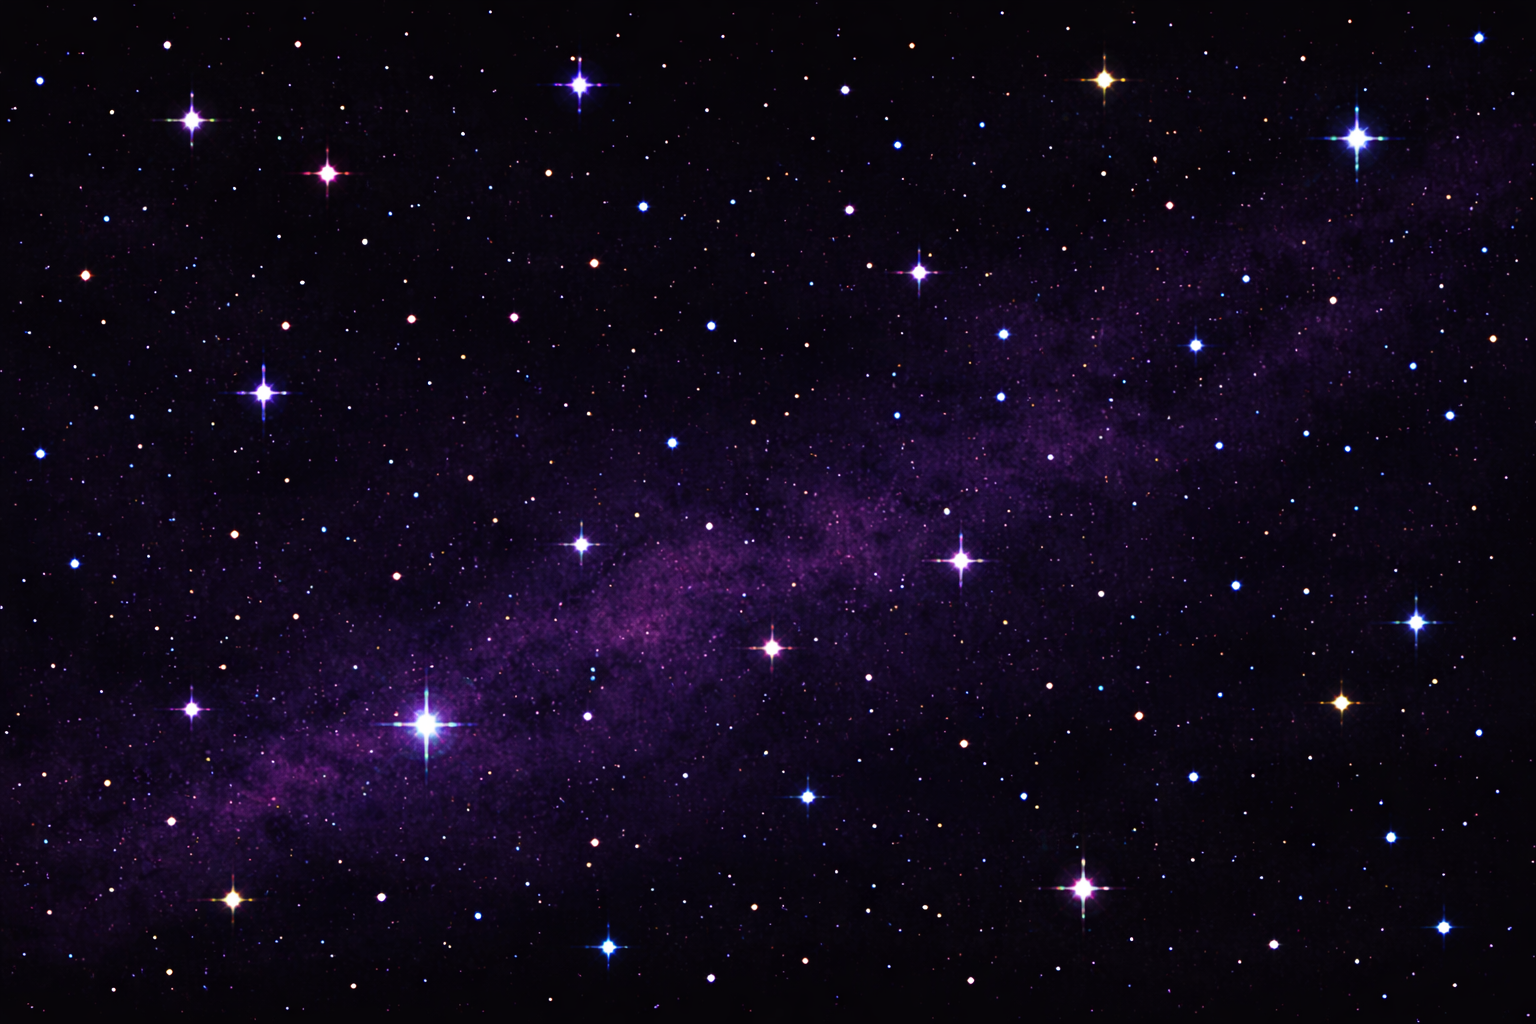
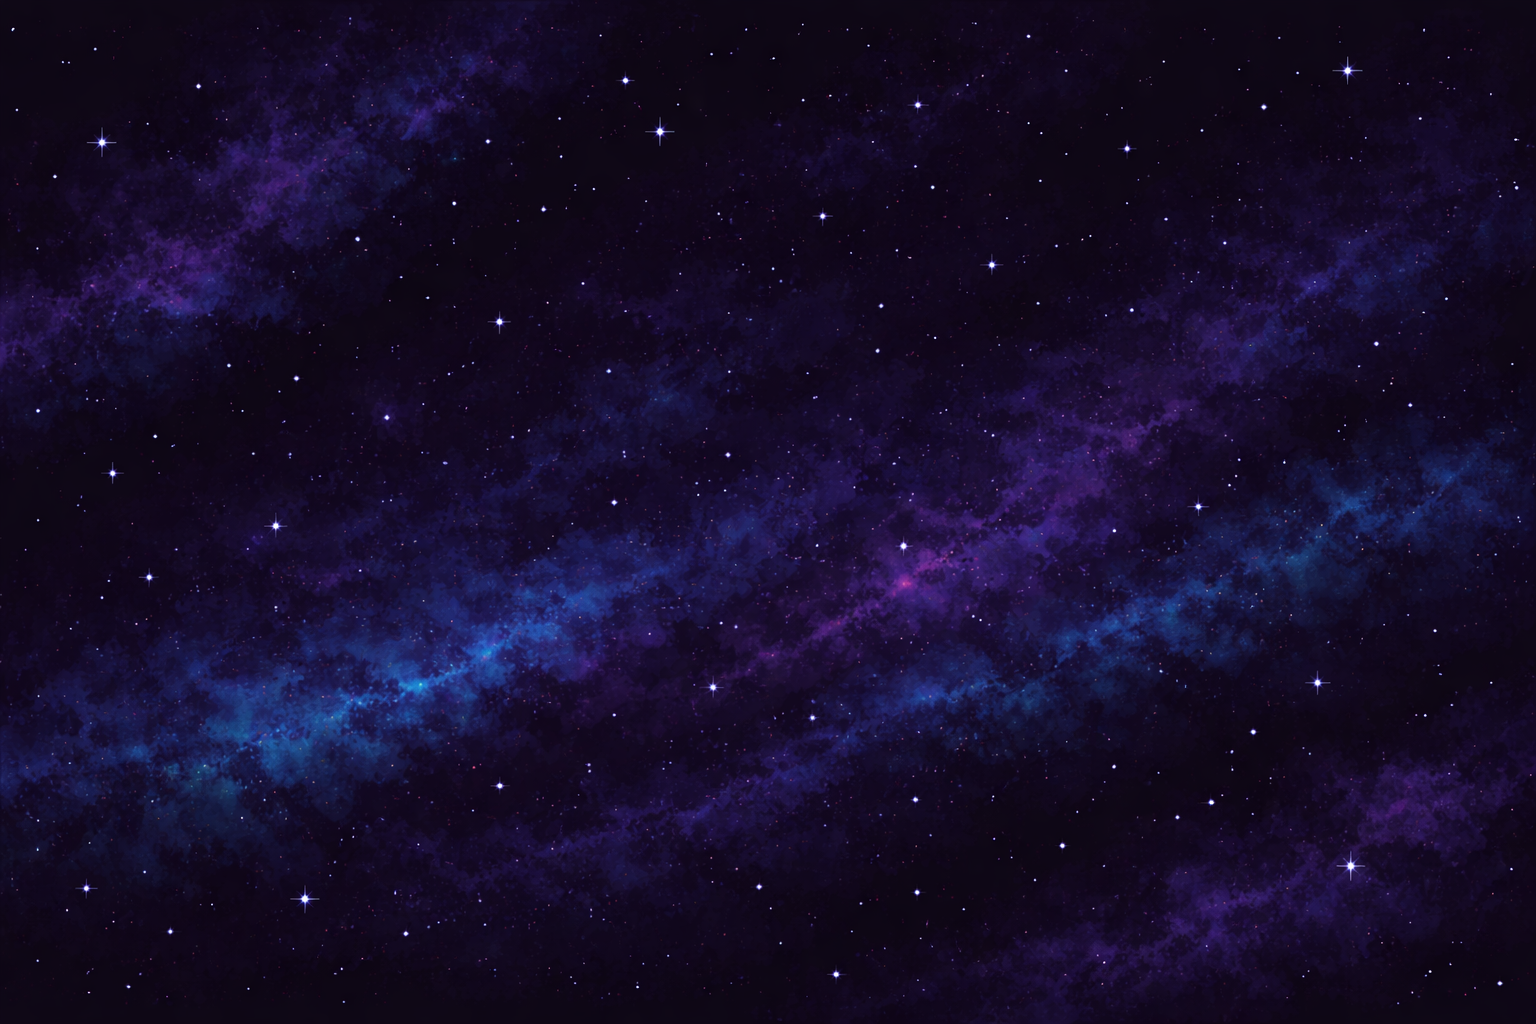
Dodani alieni i njihovi rectangle okviri za pomicanje

diff --git a/GameManager.cpp b/GameManager.cpp
@@ -1,12 +1,41 @@
 #include "GameManager.hpp"
 #include "Laser.hpp"
+#include "Enemy.hpp"
+#include <algorithm>
+#include <iostream> // makni kasnije -------------------------
+GameManager::GameManager() :
+    shipTexture(LoadTexture("Assets/spaceship scaled.png")),
+    spaceship(&shipTexture, Vector2{ (static_cast<float>(GetScreenWidth()) - shipTexture.width) / 2, static_cast<float>(GetScreenHeight()) - shipTexture.height - 70 }),
+    obstacleTexture(LoadTexture("Assets/obstacle scaled.png")),
+    backgroundTexture(LoadTexture("Assets/space_1.png")),
+    enemyTextureOne(LoadTexture("Assets/enemy_1_scaled.png")),
+    enemyTextureTwo(LoadTexture("Assets/enemy_2_scaled.png")),
+    enemyTextureThree(LoadTexture("Assets/enemy_3_scaled.png"))
 
-GameManager::GameManager() : 
-	shipTexture(LoadTexture("Assets/spaceship scaled.png")),
-    spaceship(&shipTexture, Vector2{ ((float)GetScreenWidth() - shipTexture.width) / 2, (float)GetScreenHeight() - shipTexture.height - 30 }) {
+{
+    constexpr int obstacleCount = 4;
+    const float obstacleY = GetScreenHeight() - 300;
+
+    float margin = 200.0;
+    float available = GetScreenWidth() - 2.0 * margin;
+    float spacing = available / (obstacleCount - 1);
+
+    for (int i = 0; i < obstacleCount; ++i) {
+        Vector2 pos{
+            margin + spacing * i - obstacleTexture.width / 2.0,
+            obstacleY
+        };
+        obstacles.push_back(std::make_unique<Obstacle>(&obstacleTexture, pos));
+    }
 }
+
 GameManager::~GameManager() {
 	UnloadTexture(shipTexture);
+    UnloadTexture(obstacleTexture);
+    UnloadTexture(enemyTextureOne);
+    UnloadTexture(enemyTextureTwo);
+    UnloadTexture(enemyTextureThree);
+    UnloadTexture(backgroundTexture);
 }
 
 void GameManager::HandleInput() {
@@ -20,10 +49,9 @@ void GameManager::HandleInput() {
     } 
     
     if (IsKeyPressed(KEY_SPACE)) {
-        spaceship.Fire();
         Vector2 currentPosition = spaceship.getPosition();
         Vector2 newLaser{
-        currentPosition.x + spaceship.getWidth() / 2.0f - 2.0f,
+        currentPosition.x + spaceship.getWidth()/2.0 - Laser::WIDTH / 2.0,
         currentPosition.y - 20
         };
         lasers.push_back(std::make_unique<Laser>(newLaser));
@@ -33,17 +61,31 @@ void GameManager::HandleInput() {
 void GameManager::Draw() {
     BeginDrawing();
 
-    ClearBackground(BLACK);
+    DrawTexture(backgroundTexture, 0, 0, WHITE);
+
+
     spaceship.Draw();
+
+    for (auto& obstacle : obstacles) {
+        obstacle->Draw();
+    }
+
     for (auto& laser : lasers) {
         laser->Draw();
     }
 
-
+    for (auto& enemy : enemies) {
+        enemy->Draw();
+    }
+    std::cout << "Active lasers: " << lasers.size() << std::endl; // makni kasnije -------------------------
     EndDrawing();
 }
 
 void GameManager::Update() {
+    float deltaT = GetFrameTime();
+    HandleInput();
+    MoveSwarm(deltaT);
+
     for (auto& laser : lasers) {
         laser->updatePosition();
     }
@@ -53,4 +95,72 @@ void GameManager::Update() {
             return laser->checkOffScreen();
         }), lasers.end());
 
+}
+
+void GameManager::SpawnEnemies() {
+    enemies.clear();
+    constexpr int rows = 5;
+    constexpr int columns = 11;
+
+    constexpr float startX = 100.0;
+    constexpr float startY = 80.0;
+
+    constexpr float spacingX = 90.0;
+    constexpr float spacingY = 80.0;
+
+    for (int i = 0; i < rows; i++) {
+        for (int j = 0; j < columns; j++) {
+            Vector2 newPos{ startX + j * spacingX, startY + i * spacingY };
+            const Texture2D* texPointer = nullptr;
+            int bounty = 0;
+            if (i <= 1) {
+                texPointer = &enemyTextureOne;
+                bounty = 10;
+            }
+            else if (i <= 3) {
+                texPointer = &enemyTextureTwo;
+                bounty = 20;
+            }
+            else {
+                texPointer = &enemyTextureThree;
+                bounty = 30;
+            }
+
+            enemies.emplace_back(std::make_unique<Enemy>(texPointer, newPos, bounty));
+        }
+    }
+
+};
+
+void GameManager::MoveSwarm(float deltaT) {
+    bool anyAlive = false;
+    float minX = 1e9f;
+    float maxX = -1e9f;
+
+    for (const auto& e : enemies) {
+        if (!e) continue;
+        
+        Rectangle rec = e->GetRect();
+        anyAlive = true;
+        minX = std::min(minX, rec.x);
+        maxX = std::max(maxX, rec.x + rec.width);
+    }
+
+    if (!anyAlive) return;
+
+    float deltaX = swarmDirection * swarmSpeed * deltaT;
+    bool hitLeft = (minX + deltaX <= swarmPadding);
+    bool hitRight = (maxX + deltaX >= (GetScreenWidth() - swarmPadding));
+
+    if (hitLeft || hitRight) {
+        swarmDirection *= -1;
+        for (auto& e : enemies) {
+            if (e) e->Translate(Vector2{ 0.0f, swarmDrop });
+        }
+    }
+    else {
+        for (auto& e : enemies) {
+            if (e) e->Translate(Vector2{ deltaX, 0.0f });
+        }
+    }
 }

diff --git a/GameManager.hpp b/GameManager.hpp
@@ -2,18 +2,33 @@
 #include "SpaceShip.hpp"
 #include "Entity.hpp"
 #include "Laser.hpp"
+#include "Obstacle.hpp"
 #include <vector>
 #include <memory>
 
 class GameManager {
+	Texture2D backgroundTexture;
 	Texture2D shipTexture;
+	Texture2D obstacleTexture;
+	Texture2D enemyTextureOne;
+	Texture2D enemyTextureTwo;
+	Texture2D enemyTextureThree;
 	SpaceShip spaceship;
 	std::vector<std::unique_ptr<Entity>> enemies;
 	std::vector<std::unique_ptr<Laser>> lasers;
+	std::vector<std::unique_ptr<Obstacle>> obstacles;
+
+	float swarmDirection = 1.0;
+	float swarmSpeed = 70.0;     
+	float swarmDrop = 18.0;     
+	float swarmPadding = 20.0;
+
 public:
 	GameManager();
 	~GameManager();
 	void Update();
 	void HandleInput();
+	void SpawnEnemies();
 	void Draw();
+	void MoveSwarm(float deltaT);
 };

diff --git a/SpaceShip.cpp b/SpaceShip.cpp
@@ -1,6 +1,6 @@
 #include "SpaceShip.hpp"
 #include <raylib.h>
-#include <iostream>
+
 SpaceShip::SpaceShip(const Texture2D* s, Vector2 pos) :
 Entity(s, pos) {}
 
@@ -11,17 +11,13 @@ void SpaceShip::Draw() const {
 }
 
 void SpaceShip::MoveLeft() {
-	position.x -= 7;
+	position.x -= 6;
 }
 
 void SpaceShip::MoveRight() {
-	position.x += 7;
+	position.x += 6;
 }
 
-void SpaceShip::Fire() {
-	std::cout << "Firing weapon!" << std::endl;
-	
-}
 
 Vector2 SpaceShip::getPosition() const {
 	return position;

diff --git a/Entity.cpp b/Entity.cpp
@@ -2,3 +2,19 @@
 
 Entity::Entity(const Texture2D* s, Vector2 pos) :
 	image(s), position(pos) {}
+
+Rectangle Entity::GetRect() const {
+	return Rectangle{
+		position.x,
+		position.y,
+		image ? (float)image->width : 0.0f,
+		image ? (float)image->height : 0.0f
+	};
+}
+
+Vector2 Entity::GetPosition() const { return position; }
+void Entity::SetPosition(Vector2 p) { position = p; }
+void Entity::Translate(Vector2 t) {
+	position.x += t.x;
+	position.y += t.y;
+}

diff --git a/Laser.cpp b/Laser.cpp
@@ -1,12 +1,12 @@
 #include "Laser.hpp"
 
-Laser::Laser(Vector2 pos) : Entity(nullptr, pos), speed(10){}
+Laser::Laser(Vector2 pos) : Entity(nullptr, pos) {}
 void Laser::Draw() const {
-	DrawRectangle((int)position.x, (int)position.y, 5, 20, SKYBLUE);
+	DrawRectangle(position.x, position.y, WIDTH, HEIGHT, SKYBLUE);
 }
 
 void Laser::updatePosition() {
-	position.y -= speed;
+	position.y -= SPEED;
 }
 
 bool Laser::checkOffScreen() {

diff --git a/main.cpp b/main.cpp
@@ -3,14 +3,14 @@
 #include "SpaceShip.hpp"
 
 int main() {
-    int windowWidth = 1300;
+    int windowWidth = 1600;
     int windowHeight = 900;
     InitWindow(windowWidth, windowHeight, "Space Invaders");
     SetTargetFPS(60);
 
     GameManager game;
+    game.SpawnEnemies();
     while (!WindowShouldClose()) {
-        game.HandleInput();
         game.Update();
         game.Draw();
     }

diff --git a/Enemy.hpp b/Enemy.hpp
@@ -2,9 +2,10 @@
 #include "Entity.hpp"
 #include "Player.hpp"
 
-class Enemy : Entity {
+class Enemy : public Entity {
 	int bounty;
 public:
-	Enemy(const Texture2D* s, Vector2 pos, int b); // moraju imat razlicit bounty
+	Enemy(const Texture2D* s, Vector2 pos, int b);
 	void addScore(Player* player);
+	void Draw() const override;
 };

diff --git a/Enemy.cpp b/Enemy.cpp
@@ -5,3 +5,9 @@ Enemy::Enemy(const Texture2D* s, Vector2 pos, int b) : Entity(s, pos), bounty(b)
 void Enemy::addScore(Player* player) {
 	player->addToScore(bounty);
 };
+
+void Enemy::Draw() const {
+	if (image) {
+		DrawTexture(*image, position.x, position.y, WHITE);
+	}
+};

diff --git a/Laser.hpp b/Laser.hpp
@@ -2,8 +2,10 @@
 #include "Entity.hpp"
 
 class Laser : public Entity {
-	int speed;
 public:
+	static constexpr int SPEED = 10;
+	static constexpr int WIDTH = 4;
+	static constexpr int HEIGHT = 25;
 	Laser(Vector2 pos);
 	void Draw() const override;
 	void updatePosition();

diff --git a/Entity.hpp b/Entity.hpp
@@ -9,4 +9,9 @@ public:
 	Entity(const Texture2D* s, Vector2 pos);
 	virtual ~Entity() = default;
 	virtual void Draw() const = 0;
+
+	Rectangle GetRect() const;
+	Vector2 GetPosition() const;
+	void SetPosition(Vector2 p);
+	void Translate(Vector2 t);
 };

diff --git a/Obstacle.cpp b/Obstacle.cpp
@@ -1,3 +1,9 @@
 #include "Obstacle.hpp"
 
 Obstacle::Obstacle(const Texture2D* s, Vector2 pos) : Entity(s, pos) {}
+
+void Obstacle::Draw() const {
+	if (image) {
+		DrawTexture(*image, (int)position.x, (int)position.y, WHITE);
+	}
+}

diff --git a/SpaceShip.hpp b/SpaceShip.hpp
@@ -9,7 +9,6 @@ public:
 	void Draw() const override;
 	void MoveLeft();
 	void MoveRight();
-	void Fire();
 	Vector2 getPosition() const;
 	int getWidth() const;
 };
